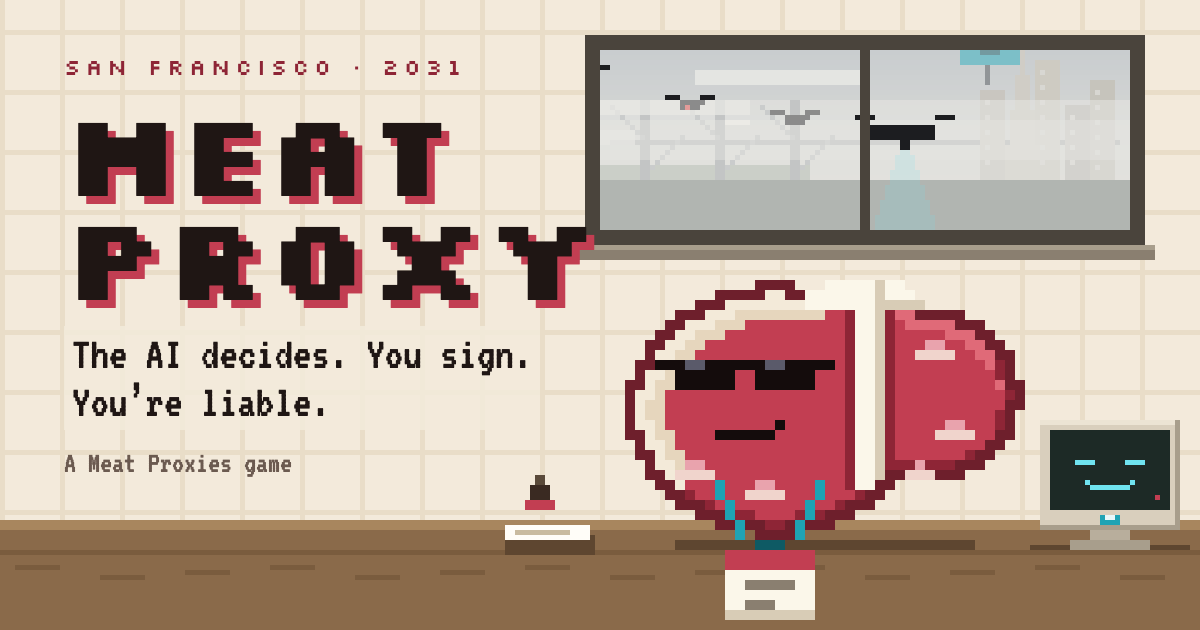
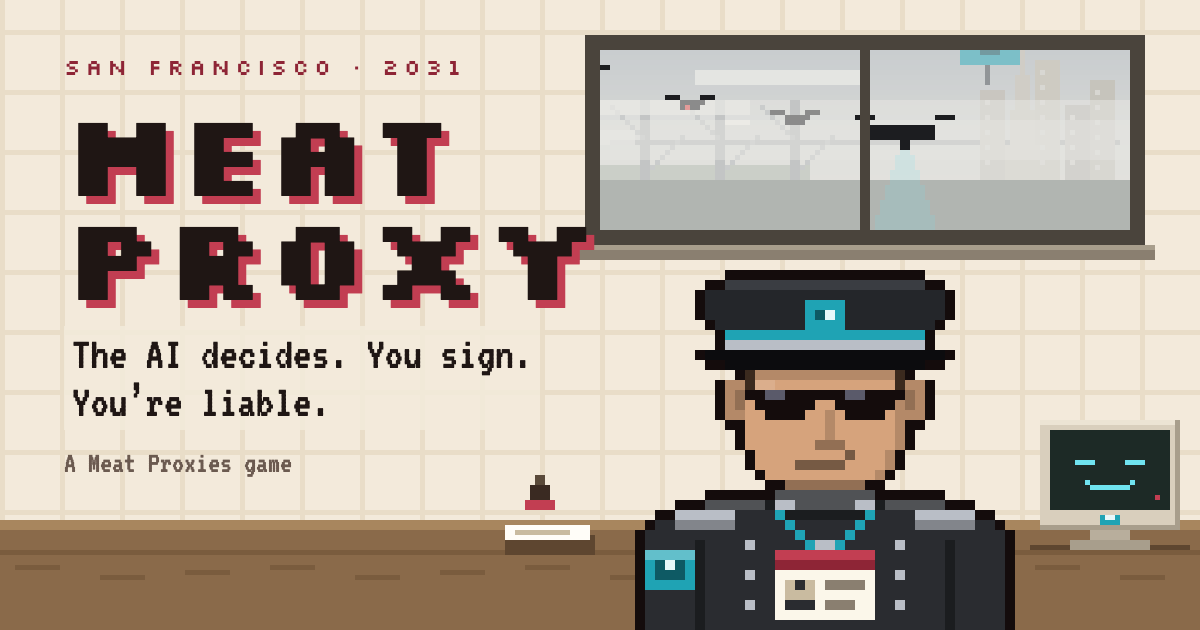
Replace the steak mascot with a human countersigner
The steak in sunglasses did not read as a character. The mascot is now
the meat proxy itself: a uniformed countersigner in sunglasses with an
ID lanyard, keeping the four moods (shades, peek, off, sweat), on the
menu, report, ending, desk sticker and og.png.

Changed region(s): [[0.4933, 0.4222, 0.8633, 1.0]]

diff --git a/js/art.js b/js/art.js
@@ -602,98 +602,110 @@ const Art = (() => {
     kick();
   }
 
-  /* ---------- the mascot: a T-bone in sunglasses ---------- */
-  const STEAK = (() => {
-    const W = 40, H = 27;
-    const inE = (x, y, cx, cy, rx, ry) => ((x - cx) / rx) ** 2 + ((y - cy) / ry) ** 2 <= 1;
-    const inside = (x, y) => {
-      if (x < 0 || y < 0 || x >= W || y >= H) return false;
-      const X = x + 0.5, Y = y + 0.5;
-      if (inE(X, Y, 26.5, 28.5, 4.5, 4.2)) return false;
-      return inE(X, Y, 15, 14, 15, 12.6) || inE(X, Y, 30.5, 12.5, 9.2, 8.6) || inE(X, Y, 24, 6, 7, 5.5);
+  /* ---------- the mascot: the meat proxy, a countersigner in sunglasses ---------- */
+  // Head and shoulders, 40×35: peaked cap, face, collar, tunic. Moods and the ID lanyard are drawn on top.
+  const PROXY = [
+    '..........oooooooooooooooooooo..........',
+    '........ookkkkkkkkkkkkkkkkkkkkoo........',
+    '.......oKKKKKKKKKKKKKKKKKKKKKKKKo.......',
+    '.......oKKKKKKKKKKccccKKKKKKKKKKo.......',
+    '.......oKKKKKKKKKKcdhcKKKKKKKKKKo.......',
+    '........oKKKKKKKKKccccKKKKKKKKKo........',
+    '.........occcccccccccccccccccco.........',
+    '.........oSSSSSSSSSSSSSSSSSSSSo.........',
+    '.......ovvvvvvvvvvvvvvvvvvvvvvvvo.......',
+    '........oovvvvvvvvvvvvvvvvvvvvoo........',
+    '...........oHggggggggggggggHo...........',
+    '.........oggHllffffffffffffHggo.........',
+    '.........ogGfllffffffffffffgGgo.........',
+    '.........ogGflfffffffffffffgGgo.........',
+    '.........oggfffffffffffffffgggo.........',
+    '..........oofffffffffffffffgoo..........',
+    '...........offfffffffffffffgo...........',
+    '...........offfffffffffffffgo...........',
+    '............offfffffffffffgo............',
+    '............offfffffffffffgo............',
+    '.............offfffffffffgo.............',
+    '..............ooGGGGGGGGoo..............',
+    '........ooooooouuuuuuuuuuooooooo........',
+    '.....ooouuuuuutSSuuuuuuSStuuuuuuooo.....',
+    '...ooSSSSSSTTTTttttttttttTTTTSSSSSSoo...',
+    '..oTTssssssTTTTTTTTTTTTTTTTTTssssssTTo..',
+    '.oTTTTTTTTTTTTTTTTTTTTTTTTTTTTTTTTTTTTo.',
+    '.oTTTTTTTTTTTTTTTTTTTTTTTTTTTTTTTTTTTTo.',
+    '.oTTTTTTTTTTTTTTTTTTTTTTTTTTTTTTTTTTTTo.',
+    '.oTTTTTTTTTTTTTTTTTTTTTTTTTTTTTTTTTTTTo.',
+    '.oTTTTTTTTTTTTTTTTTTTTTTTTTTTTTTTTTTTTo.',
+    '.oTTTTTTTTTTTTTTTTTTTTTTTTTTTTTTTTTTTTo.',
+    '.oTTTTTTTTTTTTTTTTTTTTTTTTTTTTTTTTTTTTo.',
+    '.oTTTTTTTTTTTTTTTTTTTTTTTTTTTTTTTTTTTTo.',
+    '.oTTTTTTTTTTTTTTTTTTTTTTTTTTTTTTTTTTTTo.'
+  ];
+  let proxyInk = null;
+  function proxyColors() {
+    if (proxyInk) return proxyInk;
+    const skin = SKIN_TONES[2];
+    proxyInk = {
+      o: INK, K: C.coal2, k: '#3a3d42', v: '#0c0c0e', S: C.silver, s: shade(C.silver, -0.3), c: C.lab, d: C.labDk, h: C.labHi,
+      f: skin, g: shade(skin, -0.16), G: shade(skin, -0.32), l: shade(skin, 0.12), lip: shade(skin, -0.45), H: '#3b2a1e',
+      T: C.coal, t: shade(C.coal, -0.35), u: shade(C.coal, 0.18)
     };
-    const depth = [];
-    for (let y = 0; y < H; y++) {
-      const row = [];
-      for (let x = 0; x < W; x++) {
-        let d = 0;
-        if (inside(x, y)) { d = 1; while (d < 6 && [[-d, 0], [d, 0], [0, -d], [0, d], [-d, -d], [d, d], [-d, d], [d, -d]].every(([a, b]) => inside(x + a, y + b))) d += 1; }
-        row.push(d);
-      }
-      depth.push(row);
-    }
-    return { W, H, depth };
-  })();
-  const isBone = (x, y) => (y >= 1 && y <= 3 && x >= 18 && x <= 30) || (x >= 23 && x <= 25 && y >= 3 && y <= 21);
-  function steakBody(P, plain) {
-    const { W, H, depth } = STEAK;
-    const at = (x, y) => (x < 0 || y < 0 || x >= W || y >= H ? 0 : depth[y][x]);
-    for (let y = 0; y < H; y++) {
-      for (let x = 0; x < W; x++) {
-        const d = depth[y][x];
-        if (!d) continue;
-        let c = C.meat;
-        const fatZone = x <= 19 && (y <= 13 || x <= 5) && !(x > 14 && y > 9);
-        if (d === 1) c = C.meatXd;
-        else if (fatZone && d === 2) c = C.fat;
-        else if (fatZone && d === 3) c = '#e6d6bd';
-        else if (!at(x, y + 2) || !at(x + 2, y)) c = C.meatDk;
-        else if (d === 2 && y < 12) c = C.meatHi;
-        P(x, y, 1, 1, c);
-      }
-    }
-    for (let y = 0; y < H; y++) {
-      for (let x = 0; x < W; x++) {
-        if (!isBone(x, y) || depth[y][x] < 1) continue;
-        if (depth[y][x] === 1 && y > 3) continue;
-        P(x, y, 1, 1, x === 25 || (y === 3 && x > 25) ? C.boneSh : C.bone);
-      }
-    }
-    for (let y = 4; y <= 21; y++) { if (depth[y][22] > 1) P(22, y, 1, 1, C.meatDk); if (depth[y][26] > 1) P(26, y, 1, 1, C.meatDk); }
-    const marb = plain ? [[6, 19, 4], [12, 22, 4], [29, 8, 4], [31, 16, 4], [28, 20, 3], [15, 6, 3], [8, 14, 3]] : [[5, 20, 4], [12, 22, 4], [29, 8, 4], [31, 16, 4], [28, 20, 3]];
-    marb.forEach(([x, y, w]) => { P(x, y, w, 1, '#f0d4cc'); P(x + 1, y - 1, Math.max(1, w - 2), 1, '#e9a3ad'); });
+    return proxyInk;
   }
-  function steakShades(P, y) {
-    P(3, y, 2, 1, INK); P(19, y, 2, 1, INK);
-    P(5, y, 6, 3, INK); P(13, y, 6, 3, INK); P(11, y, 2, 1, INK);
-    P(6, y, 2, 1, '#5a5a6a'); P(14, y, 2, 1, '#5a5a6a');
+  function proxyBody(P, K) {
+    PROXY.forEach((r, y) => [...r].forEach((ch, x) => { if (K[ch]) P(x, y, 1, 1, K[ch]); }));
+    P(7, 27, 1, 8, K.t); P(32, 27, 1, 8, K.t);
+    P(2, 28, 5, 4, C.lab); P(2, 28, 5, 1, shade(C.lab, 0.3)); P(3, 29, 3, 2, C.labDk); P(4, 29, 1, 1, C.labHi);
+    [27, 30, 33].forEach((y) => { P(12, y, 1, 1, C.silver); P(27, y, 1, 1, C.silver); });
+    P(20, 14, 1, 3, K.g); P(19, 17, 3, 1, K.G);
   }
-  function steakEye(P, x, y, look) { P(x, y - 1, 3, 1, INK); P(x, y, 3, 2, '#ffffff'); P(x + look, y, 1, 2, INK); }
-  function steakId(P) {
-    P(9, 21, 1, 2, C.labDk); P(10, 23, 1, 2, C.labDk); P(11, 25, 1, 2, C.labDk);
-    P(19, 21, 1, 2, C.labDk); P(18, 23, 1, 2, C.labDk); P(17, 25, 1, 2, C.labDk);
-    P(13, 27, 3, 2, C.lab);
-    P(10, 28, 9, 7, C.bone); P(10, 28, 9, 2, C.meat); P(10, 34, 9, 1, C.boneSh);
-    P(12, 31, 5, 1, C.grey); P(12, 33, 3, 1, C.grey);
+  function proxyLanyard(P) {
+    for (let i = 0; i < 4; i++) { P(15 + i, 24 + i, 1, 1, C.lab); P(24 - i, 24 + i, 1, 1, C.lab); }
+    P(19, 27, 2, 1, C.silver);
+    P(15, 28, 10, 7, C.bone); P(15, 28, 10, 2, C.meat); P(15, 29, 10, 1, C.meatDk);
+    P(16, 31, 3, 3, C.tan); P(17, 31, 1, 1, C.coal); P(16, 33, 3, 1, C.coal);
+    P(20, 31, 4, 1, C.grey); P(20, 33, 3, 1, C.grey);
   }
+  function proxyShades(P, y) {
+    P(12, y, 1, 1, INK); P(27, y, 1, 1, INK);
+    P(13, y, 6, 2, INK); P(21, y, 6, 2, INK); P(14, y + 2, 4, 1, INK); P(22, y + 2, 4, 1, INK); P(19, y, 2, 1, INK);
+    P(14, y, 2, 1, '#5a5a6a'); P(22, y, 2, 1, '#5a5a6a');
+  }
+  function proxyEyes(P, y) {
+    P(14, y, 3, 2, '#f2efe6'); P(23, y, 3, 2, '#f2efe6');
+    P(15, y, 2, 2, '#4a2e1a'); P(23, y, 2, 2, '#4a2e1a'); P(15, y, 1, 1, '#0f0f10'); P(24, y, 1, 1, '#0f0f10');
+  }
+  function proxyBrows(P, K, y) { P(13, y, 4, 1, K.H); P(23, y, 4, 1, K.H); }
   // Draws the mascot with its top-left at (0,0) of the painter: 40×35 with the ID card.
-  function steakSprite(P, mood, t) {
-    steakBody(P);
+  function proxySprite(P, mood, t) {
+    const K = proxyColors();
+    proxyBody(P, K);
     switch (mood) {
       case 'peek':
-        steakEye(P, 6, 8, 2); steakEye(P, 14, 8, 2);
-        P(6, 6, 3, 1, C.meatXd); P(14, 6, 3, 1, C.meatXd);
-        steakShades(P, 11);
-        P(10, 17, 4, 1, INK);
+        proxyBrows(P, K, 10);
+        proxyEyes(P, 12);
+        proxyShades(P, 14);
+        P(18, 19, 4, 1, K.lip);
         break;
       case 'off':
-        steakShades(P, 3);
-        steakEye(P, 6, 9, 1); steakEye(P, 14, 9, 1);
-        P(9, 16, 6, 1, INK); P(8, 15, 1, 1, INK); P(15, 15, 1, 1, INK);
+        proxyShades(P, 5);
+        proxyBrows(P, K, 11);
+        proxyEyes(P, 12);
+        P(17, 19, 6, 1, K.lip); P(16, 18, 1, 1, K.lip); P(23, 18, 1, 1, K.lip);
         break;
       case 'sweat':
-        steakShades(P, 9);
-        P(2, 4, 1, 1, '#bfe8f4'); P(1, 5, 3, 2, '#7cc4e4'); P(2, 7, 1, 1, '#7cc4e4'); P(1, 5, 1, 1, '#ffffff');
-        P(9, 16, 2, 1, INK); P(11, 17, 2, 1, INK); P(13, 16, 2, 1, INK);
+        proxyShades(P, 12);
+        P(27, 14, 1, 1, '#bfe8f4'); P(26, 15, 2, 2, '#7cc4e4'); P(26, 15, 1, 1, '#ffffff'); P(27, 17, 1, 1, '#7cc4e4');
+        P(17, 19, 2, 1, K.lip); P(19, 20, 2, 1, K.lip); P(21, 19, 2, 1, K.lip);
         break;
       default: {
-        steakShades(P, 9);
+        proxyShades(P, 12);
         const smirk = t !== undefined && Math.floor(t / 1400) % 6 === 0;
-        P(9, 16, 6, 1, INK);
-        if (smirk) P(15, 15, 1, 1, INK);
+        P(17, 19, smirk ? 5 : 6, 1, K.lip);
+        if (smirk) P(22, 18, 1, 1, K.lip);
       }
     }
-    steakId(P);
+    proxyLanyard(P);
   }
   function scaledPainter(ctx, ox, oy, s) {
     return (x, y, w, h, c) => { ctx.fillStyle = c; ctx.fillRect(ox + x * s, oy + y * s, w * s, h * s); };
@@ -701,25 +713,26 @@ const Art = (() => {
   function offsetPainter(P, ox, oy) { return (x, y, w, h, c) => P(ox + x, oy + y, w, h, c); }
 
   // The mascot at integer scale s, centred on (cx, cy) of the sprite body.
-  function steak(ctx, cx, cy, s, t, mood) {
+  function proxy(ctx, cx, cy, s, t, mood) {
     const k = Math.max(1, Math.round(s));
-    steakSprite(scaledPainter(ctx, Math.round(cx - 20 * k), Math.round(cy - 14 * k), k), mood || 'shades', t);
+    proxySprite(scaledPainter(ctx, Math.round(cx - 20 * k), Math.round(cy - 14 * k), k), mood || 'shades', t);
   }
 
   // The mascot as a badge for a 96×80 canvas. Moods: shades, peek, off, sweat.
-  function steakBadge(canvas, mood) {
+  function proxyBadge(canvas, mood) {
     const ctx = canvas.getContext('2d');
     ctx.imageSmoothingEnabled = false;
     ctx.clearRect(0, 0, canvas.width, canvas.height);
     const s = Math.max(1, Math.floor(Math.min(canvas.width / 48, canvas.height / 40)));
     const ox = Math.round((canvas.width - 40 * s) / 2), oy = Math.round((canvas.height - 35 * s) / 2);
-    steakSprite(scaledPainter(ctx, ox, oy, s), mood || 'shades', STILL);
+    proxySprite(scaledPainter(ctx, ox, oy, s), mood || 'shades', STILL);
   }
 
-  // A 13×8 die-cut sticker of the mascot.
-  function steakSticker(P, x, y) {
-    const rows = ['..wwwwwwwww..', '.wwoooooooww.', 'wwoffffbmmoww', 'wofSSSSSbmmow', 'wofmmmmmbmmow', 'wwommmmmmmoww', '.wwoooooooww.', '..wwwwwwwww..'];
-    const col = { w: '#fffdf8', o: C.meatXd, f: C.fat, m: C.meat, S: INK, b: C.bone };
+  // A 13×9 die-cut sticker of the mascot's face, shades on.
+  function proxySticker(P, x, y) {
+    const rows = ['...wwwwwww...', '..wkkkkkkkw..', '.wwKKKcKKKww.', '.wcccccccccw.', 'wwvvvvvvvvvww', '.wSSSSSSSSSw.', '.wfSSfffSSgw.', '.wwffLLLfgww.', '..wwwwwwwww..'];
+    const K = proxyColors();
+    const col = { w: '#fffdf8', k: K.k, K: K.K, c: C.lab, v: K.v, S: INK, f: K.f, g: K.g, L: K.lip };
     rows.forEach((r, j) => [...r].forEach((ch, i) => { if (col[ch]) P(x + i, y + j, 1, 1, col[ch]); }));
   }
 
@@ -877,8 +890,9 @@ const Art = (() => {
     P(0, deskY, W, 22, C.deskMd); P(0, deskY, W, 2, C.deskHi); P(0, deskY + 6, W, 1, C.desk);
     for (let x = 3; x < W; x += 17) P(x, deskY + 9 + (x % 3), 9, 1, C.desk);
     const sx = band ? W - 46 : portrait ? W - 48 : Math.max(4, wx + Math.round(ww * 0.42) - 20 * ss);
-    P(sx + 5 * ss, sy + 27 * ss, 30 * ss, ss, C.deskDk);
-    steakSprite(scaledPainter(ctx, sx, sy, ss), 'shades', t);
+    const below = H - (sy + 35 * ss);
+    if (below > 0) { P(sx + ss, sy + 35 * ss, 38 * ss, below, INK); P(sx + 2 * ss, sy + 35 * ss, 36 * ss, below, C.coal); P(sx + 7 * ss, sy + 35 * ss, ss, below, shade(C.coal, -0.35)); P(sx + 32 * ss, sy + 35 * ss, ss, below, shade(C.coal, -0.35)); }
+    proxySprite(scaledPainter(ctx, sx, sy, ss), 'shades', t);
     const cx = portrait ? 6 : Math.min(W - 32, sx + 40 * ss + 4);
     if (!band && (!portrait || W > 120)) {
       P(cx - 2, deskY + 5, 32, 1, C.deskDk);
@@ -1451,7 +1465,7 @@ const Art = (() => {
     P(50, 34, 60, 30, '#c4a06a'); P(50, 34, 60, 2, '#d8b884'); P(50, 62, 60, 2, '#a8865e'); P(108, 36, 2, 26, '#a8865e');
     P(46, 30, 8, 6, '#b8915e'); P(106, 30, 8, 6, '#b8915e');
     P(76, 34, 8, 30, '#d8c8a0');
-    steakSticker(P, 56, 48);
+    proxySticker(P, 56, 47);
     P(20, 58, 24, 3, C.coal); P(28, 57, 6, 5, C.coal2); P(29, 58, 4, 3, C.lab); P(30, 59, 2, 1, C.labDk);
     P(52, 64, 56, 2, C.deskDk);
   }
@@ -1492,7 +1506,7 @@ const Art = (() => {
     for (let i = 0; i < left * 2; i++) { const y = 37 - i * 2; P(7 + (i % 2), y, 30, 2, i % 2 ? C.paper : C.sheet); P(7 + (i % 2), y + 1, 30, 1, C.tan); }
     P(4, 36, 36, 5, '#4a4f55'); P(4, 36, 36, 1, '#6f7c86');
     k.text('IN', 7, 37, C.silver);
-    steakSticker(P, 26, 33);
+    proxySticker(P, 26, 32);
     P(50, 44, 26, 2, sh);
     P(48, 37, 26, 8, '#3a3d42'); P(48, 37, 26, 1, '#6f7c86'); P(50, 39, 22, 5, C.ink); P(51, 40, 6, 1, '#2a2226');
     P(48, 32, 26, 5, '#4a4f55'); P(48, 32, 26, 1, '#6f7c86');
@@ -1638,5 +1652,5 @@ const Art = (() => {
     }, { fixed: [CAL_W, CAL_H], max: o.max || 4, maxH: o.maxH, still: true });
   }
 
-  return { scene, photo, bust, title, chuckPortrait, steak, steakBadge, shade, mix, live, place, skyline, ending, desk, stamp, sealIcon, calendar, calendarRowEnd, endings: Object.keys(ENDINGS), places: Object.keys(PLACES) };
+  return { scene, photo, bust, title, chuckPortrait, proxy, proxyBadge, steak: proxy, steakBadge: proxyBadge, shade, mix, live, place, skyline, ending, desk, stamp, sealIcon, calendar, calendarRowEnd, endings: Object.keys(ENDINGS), places: Object.keys(PLACES) };
 })();

diff --git a/js/game.js b/js/game.js
@@ -1492,7 +1492,7 @@ function showReport() {
   $('report-wrap').innerHTML = `<div class="report">
     <div class="rep-sky"><canvas class="px" id="rep-sky" aria-hidden="true"></canvas></div>
     <div class="rep-head">
-      <canvas class="px badge" id="rep-badge" width="96" height="80" role="img" aria-label="The Meat Proxy steak. ${esc(caption)}"></canvas>
+      <canvas class="px badge" id="rep-badge" width="96" height="80" role="img" aria-label="The meat proxy. ${esc(caption)}"></canvas>
       <div><h2 id="rep-title" tabindex="-1">SHIFT ${String(s.day).padStart(2, '0')} — DAILY REPORT</h2>
       <div class="sub">DISTRICT 7 COUNTERSIGNATURE OFFICE · ${esc(S.officer.toUpperCase())} · ${esc(longDate(dayDate(S.day)).toUpperCase())}</div>
       <div class="badge-cap">${esc(caption)}</div></div>
@@ -1542,7 +1542,7 @@ function showReport() {
     </div></div>
     <div class="report-actions"><button class="btn small" id="rep-copy">Copy shift report</button><span class="spacer"></span><button class="btn" id="rep-save">Save game</button><button class="btn primary" id="rep-next">${S.rep <= 0 ? 'See Marta' : 'Clock out'}</button></div>`;
   $('report-wrap').scrollTop = 0;
-  Art.steakBadge($('rep-badge'), mood);
+  Art.proxyBadge($('rep-badge'), mood);
   const sky = $('rep-sky');
   Art.live(sky, (t) => Art.skyline(sky, skyDay(), weatherToday(), t), { h: 30, s: 2 });
   announce(`Shift ${s.day} report. ${s.stars} of 5 stars. ${harmText} ${fileLine}`);
@@ -1665,13 +1665,13 @@ function showEnding(key) {
   const E = ENDINGS[key] || ENDINGS.autosigned;
   const got = readEndings();
   const st = S.stats;
-  // The steak's caption describes how this run was played, not the ending's mood.
+  // The proxy badge's caption describes how this run was played, not the ending's mood.
   const { mood, caption } = endingBadge(S);
   const doors = E.endless ? [] : otherDoors(Object.assign({}, got, { [key]: true }), key);
   $('ending').innerHTML = `
     <div class="end-art"><canvas class="px" id="end-art" width="160" height="72" aria-hidden="true"></canvas></div>
     <div class="end-head">
-      <canvas class="px badge" id="end-badge" width="96" height="80" role="img" aria-label="The Meat Proxy steak. ${esc(caption)}"></canvas>
+      <canvas class="px badge" id="end-badge" width="96" height="80" role="img" aria-label="The meat proxy. ${esc(caption)}"></canvas>
       <div><div class="eyebrow">${E.endless ? `ENDLESS RUN · ${plural(endlessShift(), 'SHIFT').toUpperCase()}` : `ENDING ${CAMPAIGN_ENDINGS().filter((k) => got[k]).length} OF ${CAMPAIGN_ENDINGS().length} FOUND`}</div>
       <h2 id="end-title" tabindex="-1">${esc(E.title)}</h2>
       <div class="badge-cap">${esc(caption)}</div></div>
@@ -1688,7 +1688,7 @@ function showEnding(key) {
       <button class="btn" id="end-new">New contract</button>
       ${['dismissed', 'relocated', 'scapegoat', 'bust', 'reloc'].includes(key) ? '' : '<button class="btn" id="end-endless">Keep signing (endless)</button>'}
     </div>`;
-  Art.steakBadge($('end-badge'), mood);
+  Art.proxyBadge($('end-badge'), mood);
   const endArt = $('end-art');
   Art.live(endArt, (t) => Art.ending(endArt, E.art || key, t), { fixed: [160, 72], max: 3 });
   $('end-share').addEventListener('click', (e) => shareOrCopy([

diff --git a/js/content.js b/js/content.js
@@ -1010,12 +1010,12 @@ const LINES = {
   softNoteHome: [
     'Returned. It will come back, probably tomorrow, probably signed. Until then, someone sleeps at home.'
   ],
-  // The steak badge's caption, by mood and by what actually happened.
+  // The proxy badge's caption, by mood and by what actually happened.
   caption: {
     shades: ['Shades on. Liability on.', 'Shades on. Didn’t look. Signed anyway.', 'Shades on. What you don’t read can’t be quoted at you.', 'Shades on. CHUCK approves of this level of curiosity.'],
     peek: ['You read the file. Noted.', 'Peeking over the shades. The file peeked back.', 'You opened the case file. Oversight opened a note about it.', 'You read the fine print. The fine print keeps a log.'],
-    peekPerfect: ['You read the file. Five stars anyway. Noted, fondly.', 'Read everything, signed right. The shades are impressed.', 'Peeked, checked, correct. The steak tips its shades.', 'You read the file and got it right. Rare. Logged as “good”.'],
-    sweat: ['Your file grew today. The steak is sweating for you.', 'Shades on. Still sweating. New pages will do that.', 'Oversight added pages. The steak added sweat.', 'A heavy day for your file. The shades can’t hide that.'],
+    peekPerfect: ['You read the file. Five stars anyway. Noted, fondly.', 'Read everything, signed right. The shades are impressed.', 'Peeked, checked, correct. Your proxy tips the shades.', 'You read the file and got it right. Rare. Logged as “good”.'],
+    sweat: ['Your file grew today. Your proxy is sweating for you.', 'Shades on. Still sweating. New pages will do that.', 'Oversight added pages. Your proxy added sweat.', 'A heavy day for your file. The shades can’t hide that.'],
     off: ['Shades off. Eyes open. Not recommended.', 'Shades off. You saw all of it.', 'Shades off. Nothing left to squint at.', 'Shades off. The light is terrible. You stay anyway.']
   }
 };

diff --git a/js/story.js b/js/story.js
@@ -907,7 +907,7 @@ function otherDoors(got, key) {
   return Object.keys(ENDING_DOORS).filter((k) => k !== key && !(got && got[k]) && ENDINGS[k] && !ENDINGS[k].endless).map((k) => ({ key: k, title: ENDINGS[k].title, hint: ENDING_DOORS[k] }));
 }
 
-// The steak badge on the ending screen describes how you played: how often you opened the case file, whether you
+// The proxy badge on the ending screen describes how you played: how often you opened the case file, whether you
 // refused anything, whether you took the envelopes. It never says you read what you didn't, or the other way round.
 const READ_MOST = 0.6;
 function endingBadge(S) {

diff --git a/docs/BRIEF.md b/docs/BRIEF.md
@@ -146,7 +146,7 @@ machine, one where the truth gets out, and one where you are simply replaced. Ev
 - **Same pixel engine and desk.** The window shows drones, a lab billboard and fog. The cold room door becomes a
   ration locker. A wall poster becomes a "Your Alignment Matters" notice.
 - **CHUCK's monitor** gets the lab's logo. Add one new mood, `pleased-with-itself`.
-- **Title screen:** the steak mascot stays (it's the brand), now wearing a lanyard with a countersigner badge,
+- **Title screen:** the mascot is the meat proxy itself, a uniformed clerk in shades, wearing a lanyard with a countersigner badge,
   under a drone.
 - **Palette:** keep the butcher-paper base, and add a cold "lab" accent (a clinical cyan or sodium orange) used
   only for lab-owned surfaces. Keep the contrast fixes: no functional text under 11px, AA contrast.
